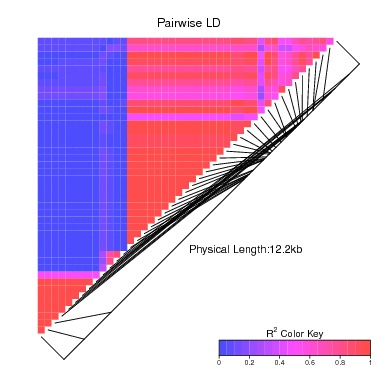
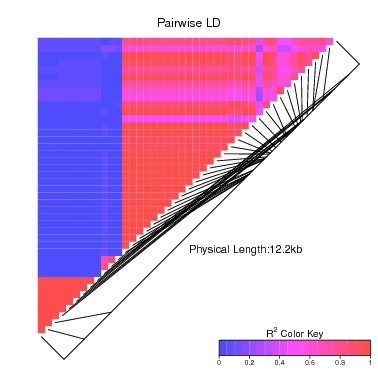
update plot_threshold

Changed region(s): [[0.0873, 0.0873, 0.873, 0.8439], [0.1164, 0.8148, 0.2037, 0.9021], [0.1164, 0.1164, 0.1746, 0.1746]]

diff --git a/utility/README.md b/utility/README.md
@@ -25,13 +25,14 @@ biocLite("chopsticks")
 
 The command line for plotting the DAP data is
 ```
-plot_dap -d dap_output_file -s sbams_input_file -m map_file -gene gene_name [-Rpath directory_containing_DAP_plot_dot_R]
+plot_dap -d dap_output_file -s sbams_input_file -m map_file -gene gene_name [-Rpath directory_containing_DAP_plot_dot_R] [-t snp_level_pip_threshold]
 ```
 where
 
 * ```dap_output_file```:  the output file from ```dap-g```
 * ```sbams_input_file```: the input sbams file for ```dap-g``` run
 * ```map_file```: map file containing genomic position info for all SNPs in the sbams file
+* ```snp_level_pip_threshold```: only SNPs with PIP above the specified threshold within a cluster will be plotted. The default value is set to 1e-3.
 
 The map file is in text format and contains the following three columns
 ```
